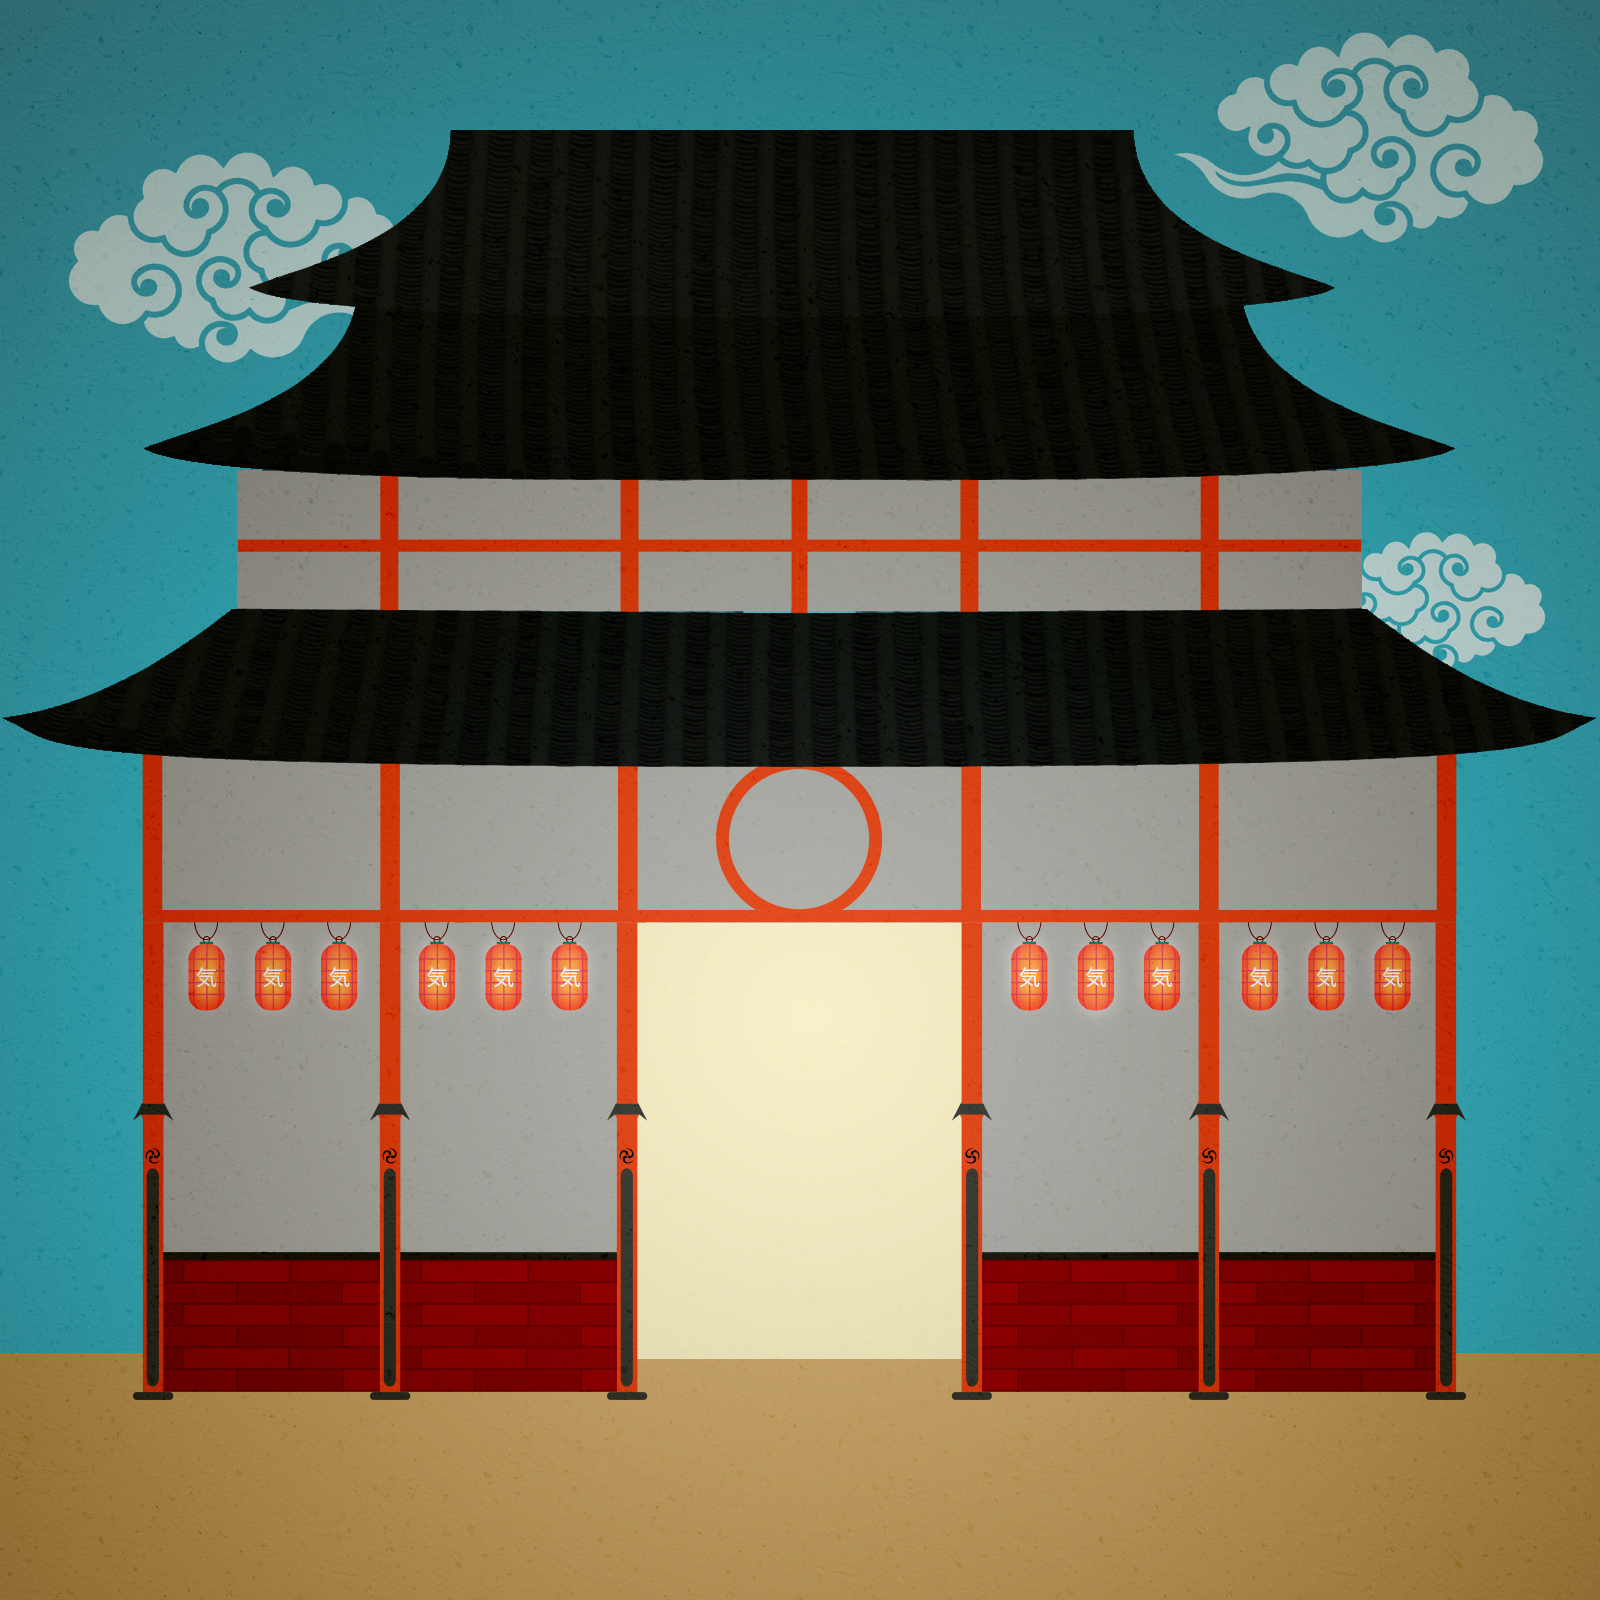
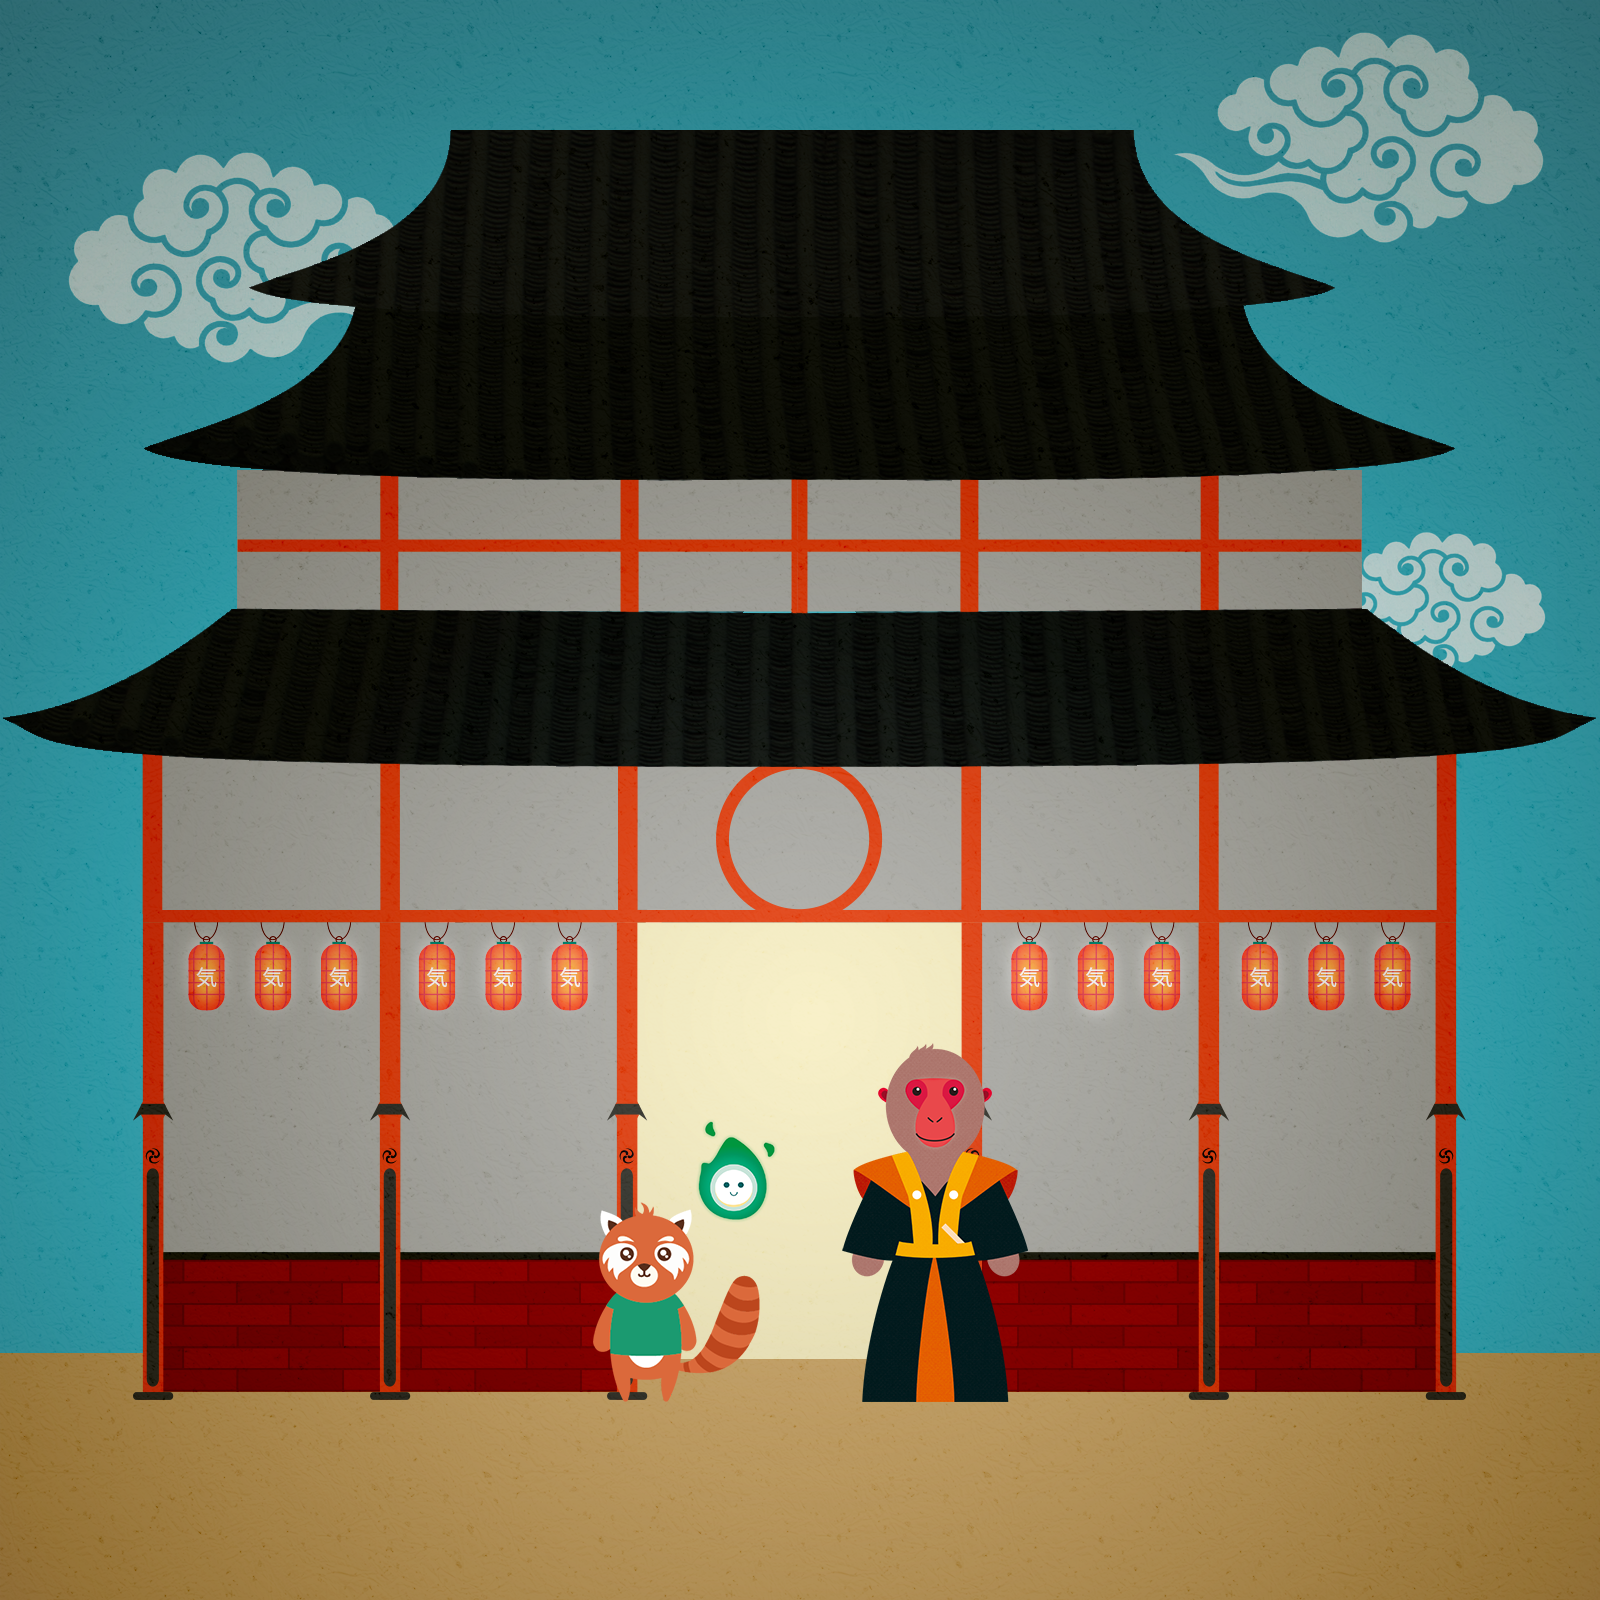
modif bg

Changed region(s): [[0.5312, 0.6562, 0.6562, 0.875], [0.375, 0.6875, 0.5, 0.875]]

diff --git a/app/resources/sass/martialarts.scss b/app/resources/sass/martialarts.scss
@@ -191,18 +191,19 @@ div#inputBox {
 
 /* background + animation
 ==================================================*/
+/*
 .body-martialarts .square {
   background: url("/img/arts-martiaux.png") no-repeat top center transparent;
   background-size: cover;
-}
-/*
+}*/
+
 .dojo-front {
-  background: url("/img/calligraphie_decor.png") no-repeat top center transparent;
+  background: url("/img/arts-martiaux-dojo.png") no-repeat top center transparent;
   background-size: cover;
   position: absolute;
 width: 100%;
 height: 100%;
-z-index: 0;
+z-index: 1;
 }
 
 .dojo-inside {
@@ -211,9 +212,9 @@ z-index: 0;
   position: absolute;
 width: 100%;
 height: 100%;
-z-index: -1;
+z-index: 0;
 }
-*/
+
 
 #spriteYuki img{
   width: 30%;

diff --git a/app/resources/javascript/martialarts.js b/app/resources/javascript/martialarts.js
@@ -72,8 +72,8 @@ $(document).ready(function() {
         }
 
         if (indexdialoguescript === 12) {
-          //$( ".body-martialarts" ).fadeOut();
-          //$( ".body-martialarts-dojo" ).fadeIn();
+          $( ".dojo-front" ).fadeOut();
+          $( ".dojo-inside" ).fadeIn();
           $('#yuki_face').fadeOut();
           $('#yuki_profil').fadeIn();
 
